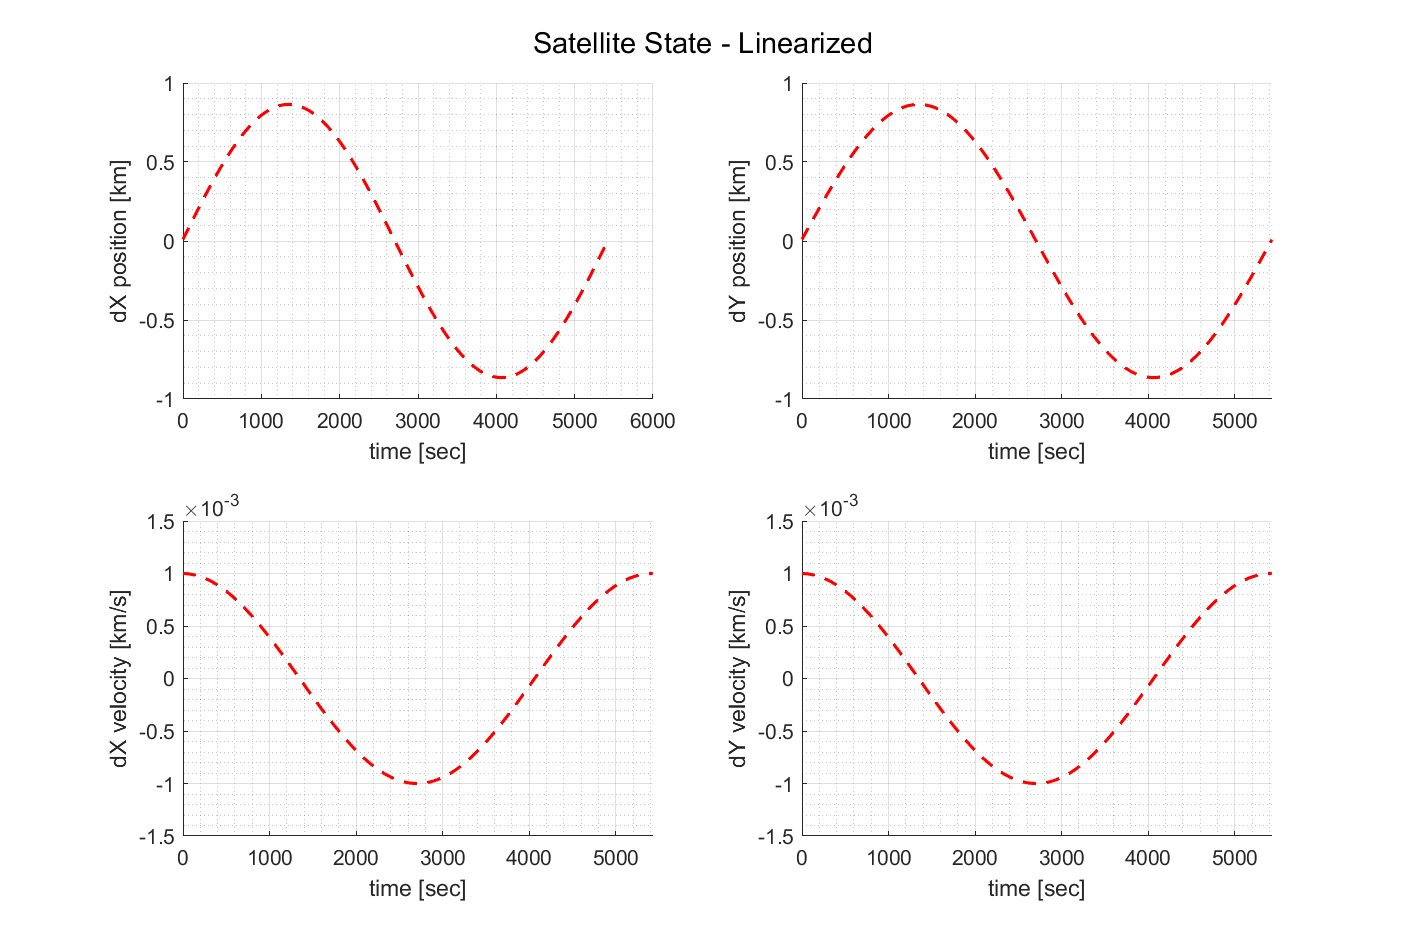
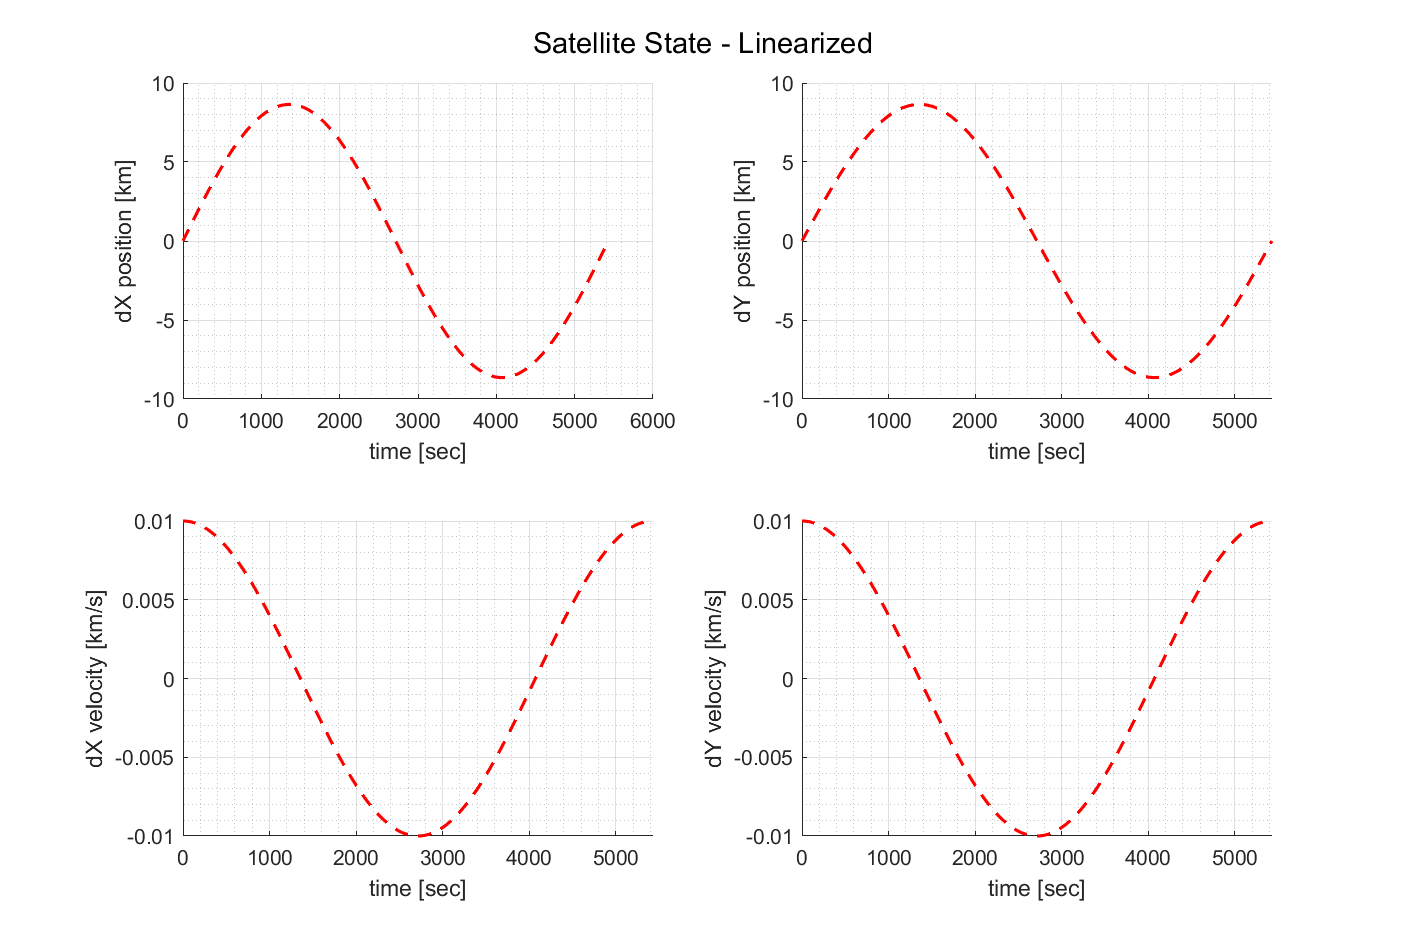
Updated dx0

diff --git a/ASEN5044_HW8_problem2.m b/ASEN5044_HW8_problem2.m
@@ -43,7 +43,7 @@ dt = 10;
 % Nominalize the A matrix
 delta_x = [0 0 0 0]';
 
-dx = [0.01, 0.001, 0.01, 0.001]';
+dx = [0.01, 0.01, 0.01, 0.01]';
 dx_lin = [];
 for i = 1:length(t_vec)
     dx_lin = horzcat(dx_lin, dx(:,i));
